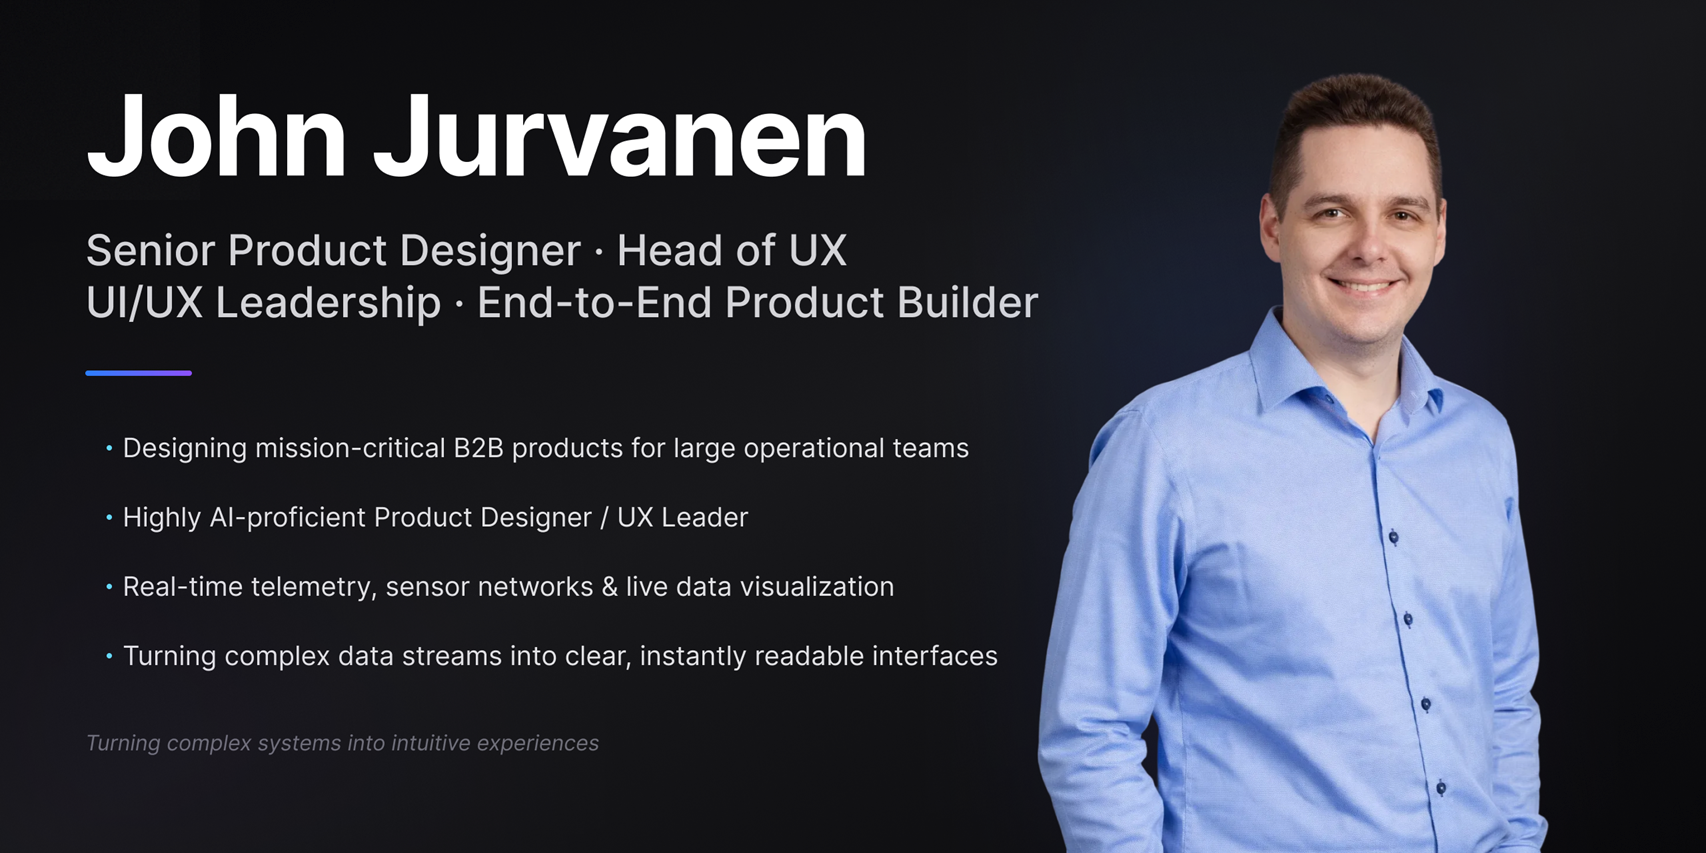
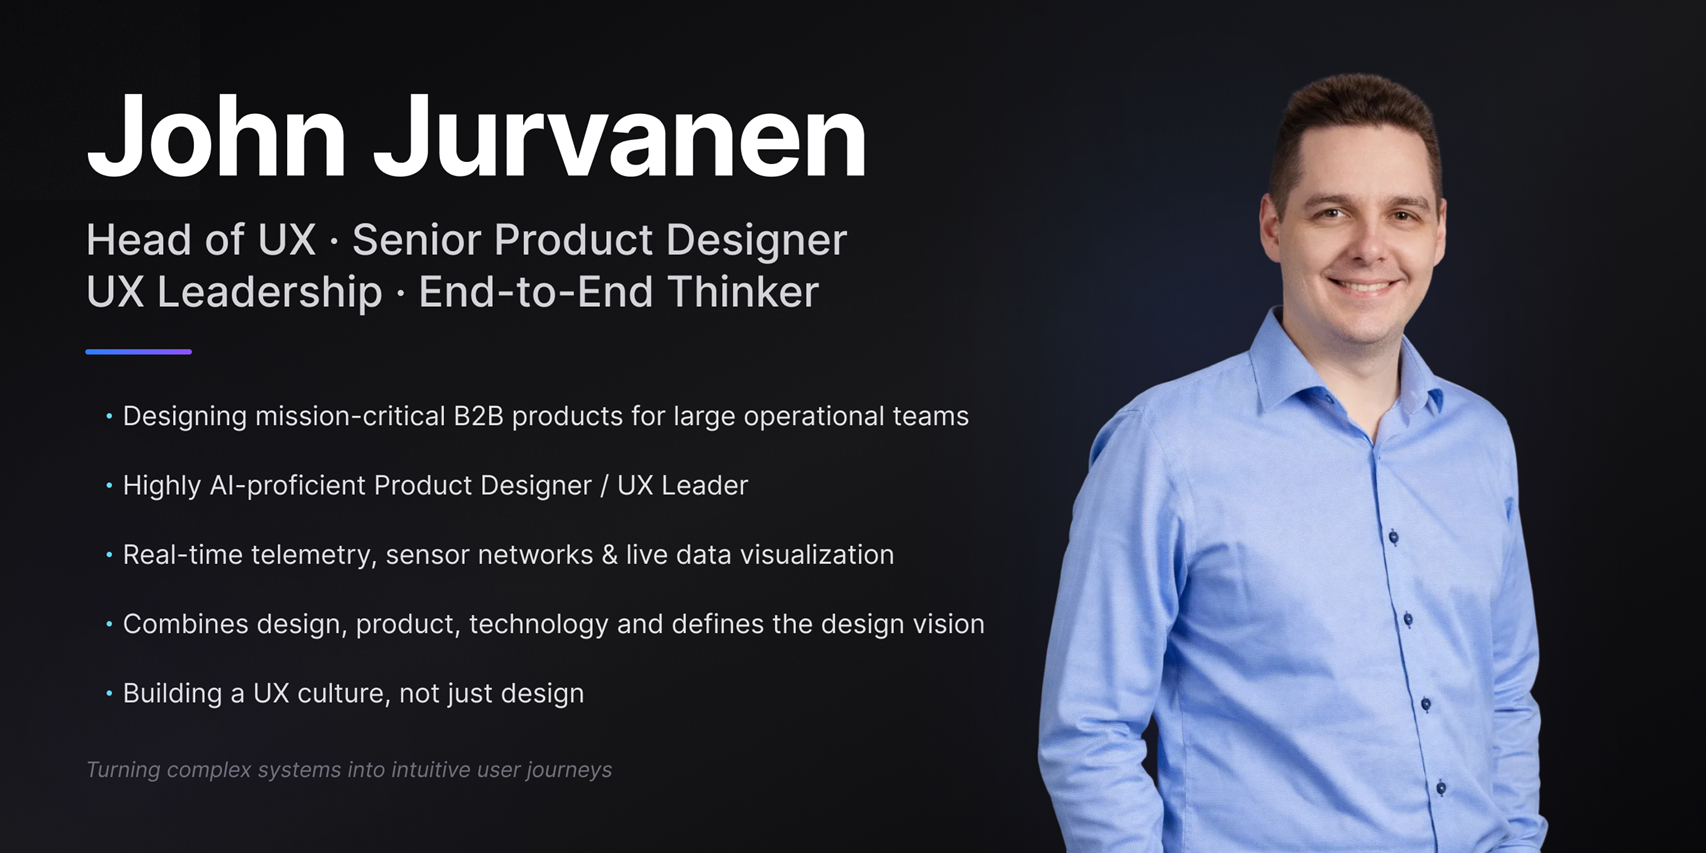
Title Update

Changed region(s): [[0.0311, 0.2438, 0.6213, 0.823], [0.0621, 0.8535, 0.3728, 0.9144]]

diff --git a/index.html b/index.html
@@ -35,8 +35,8 @@
 
 <meta charset="UTF-8">
 <meta name="viewport" content="width=device-width, initial-scale=1.0">
-<title>John Jurvanen - End to End Product Builder - Leader</title>
-<meta property="og:title" content="John Jurvanen - End to End Product Builder - Leader">
+<title>John Jurvanen - Head of UX - End to End Product Thinking - UX Leader</title>
+<meta property="og:title" content="John Jurvanen - Head of UX - End to End Product Thinking - UX Leader">
 <meta property="og:image" content="https://davelantor.github.io/portfolio/images/banner.png">
 <meta property="og:url" content="https://davelantor.github.io/portfolio/">
 <meta property="og:type" content="website">
